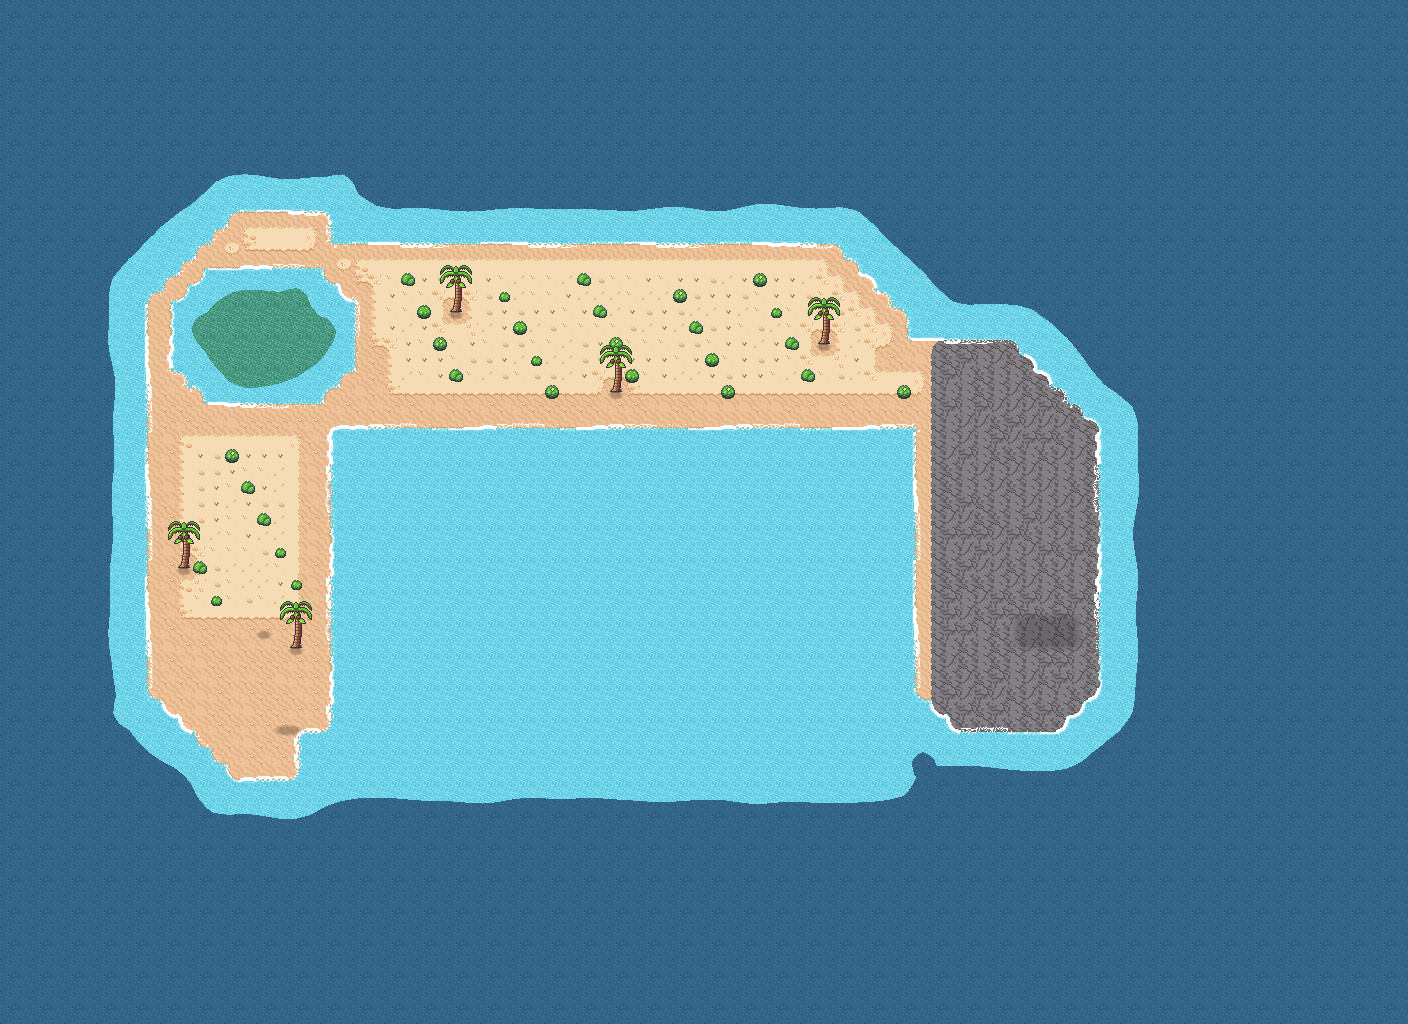
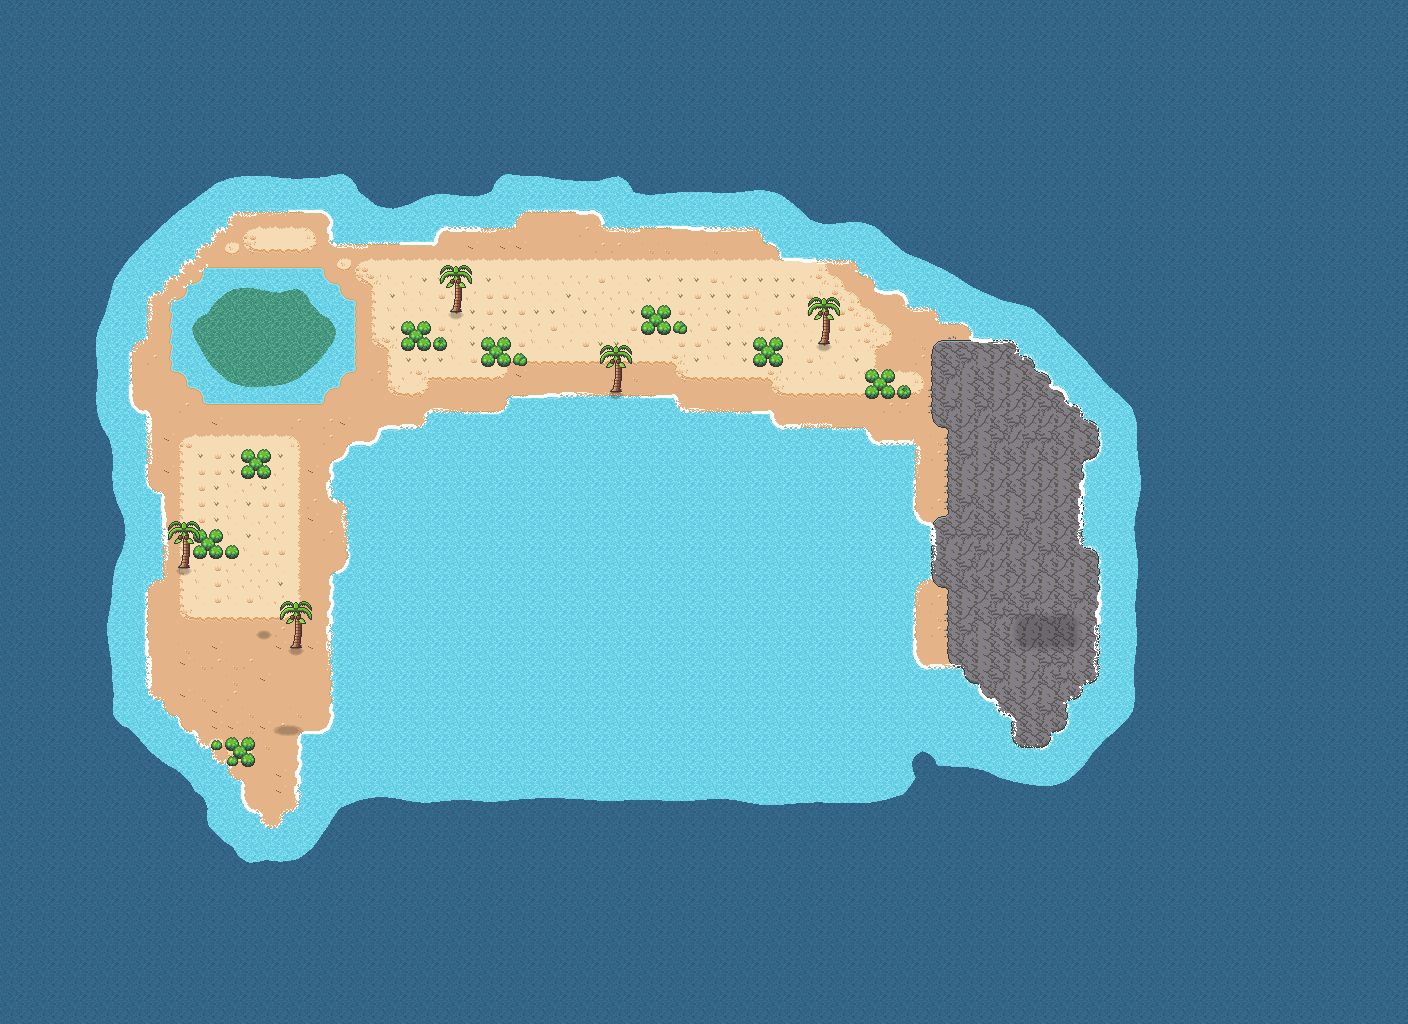
feat(coast-cay-reshape): a coast cay that reads as an island, and the sandbar's bay tips filled (C6)
The cay's bay shore bends north in a bight, its north and west coasts and
the rock's east face step in and out, the rocky point narrows to its tip
south of the post, driftwood lies in small groups and scrub in 8 clumps.
1,020 land cells; every count, place and walk band is kept; the patrol
still spots 32% (34 +/- 3), lights the raft site and never the bench.
Outline tests pin it (they failed on the old map). The sandbar's four
inner bay tips are beach (owner QC1 (a)).

Re-pins carry their reasons; test_patrol_solo's squad case clears the
night crabs, which the shifted seeded spawn put beside its hiding spot.

Changed region(s): [[0.0625, 0.1562, 0.8125, 0.8438]]

diff --git a/openspec/changes/coast-cay-reshape/tasks.md b/openspec/changes/coast-cay-reshape/tasks.md
@@ -4,45 +4,45 @@ Every group ends with the import twice (`godot --headless --path game --import`,
 
 ## 0. Gate
 
-- [ ] 0.1 Start only when art-coast-pass (wave 1) has merged into main, so the authors see rounded corners, and the coordinating session has said go. Branch from main.
-- [ ] 0.2 Read the merged state of everything that pins the cay: the coast-cay-bench change (archived or still open) and its tests, guardacostas-stealth's patrol tests, and art-terrain-polish if it has landed. Confirm on main the cells of design D2 (landing, raft site, bench and its dry grass, post block rows 38–40 × columns 63–67, rope cache, aloe, lagoon, drinking spot (22, 21), palms), and note today's pinned numbers in this design's build notes.
+- [x] 0.1 Start only when art-coast-pass (wave 1) has merged into main, so the authors see rounded corners, and the coordinating session has said go. Branch from main.
+- [x] 0.2 Read the merged state of everything that pins the cay: the coast-cay-bench change (archived or still open) and its tests, guardacostas-stealth's patrol tests, and art-terrain-polish if it has landed. Confirm on main the cells of design D2 (landing, raft site, bench and its dry grass, post block rows 38–40 × columns 63–67, rope cache, aloe, lagoon, drinking spot (22, 21), palms), and note today's pinned numbers in this design's build notes.
 
 ## 1. Tests first
 
-- [ ] 1.1 In `game/tests/unit/test_coast_cay_layout.gd`, write the outline tests of design D1 on the built layout:
+- [x] 1.1 In `game/tests/unit/test_coast_cay_layout.gd`, write the outline tests of design D1 on the built layout:
   - no coast run and no rock seam run is longer than 10 cells;
   - the rocky point's southmost three rows are each at most half its widest row, and the post block has rock on all four sides;
   - driftwood groups of 1–3 and at most 3 per row or column;
   - 25–45 scrub cells, every clump at least 4 with a 2×2 block;
   - every pick-up, palm and sign cell has at least two land corners.
   See them fail on today's map, and record the failing measures (expected: runs of 36, 32, 26 and 19, a seam of 23, tip rows 11, 10 and 8 of 11, one row holding 6 driftwood, 29 lone scrub cells).
-- [ ] 1.2 In `game/tests/unit/test_patrol_coverage.gd`, if not already pinned, add the coast-cay-bench rule that the bench and its 8 neighbours are never lit in one lap. Verify it passes on today's map.
-- [ ] 1.3 The 1-player check is the existing set, which must stay green on the new map with no edit: `test_coast_cay_solo.gd` (`test_solo_arrives_on_the_coast_cay`, `test_solo_takes_the_post_nails_and_builds_a_raft`, `test_solo_drinks_the_lagoon`, `test_solo_lights_a_fire_with_the_lighter_in_one_second`), `test_coast_cay_layout.gd` `test_a_lone_arrivals_walks` and `test_everything_is_in_reach_of_a_lone_arrival`, and `test_coast_cay_bench.gd` `test_solo_lights_a_fire_at_the_coast_cays_bench`. Add one assertion to `test_a_lone_arrivals_walks` that the workbench is a 1–4 s walk, if it is not there yet.
+- [x] 1.2 In `game/tests/unit/test_patrol_coverage.gd`, if not already pinned, add the coast-cay-bench rule that the bench and its 8 neighbours are never lit in one lap. Verify it passes on today's map.
+- [x] 1.3 The 1-player check is the existing set, which must stay green on the new map with no edit: `test_coast_cay_solo.gd` (`test_solo_arrives_on_the_coast_cay`, `test_solo_takes_the_post_nails_and_builds_a_raft`, `test_solo_drinks_the_lagoon`, `test_solo_lights_a_fire_with_the_lighter_in_one_second`), `test_coast_cay_layout.gd` `test_a_lone_arrivals_walks` and `test_everything_is_in_reach_of_a_lone_arrival`, and `test_coast_cay_bench.gd` `test_solo_lights_a_fire_at_the_coast_cays_bench`. Add one assertion to `test_a_lone_arrivals_walks` that the workbench is a 1–4 s walk, if it is not there yet.
 
 ## 2. The new outline
 
-- [ ] 2.1 Write the one-off helper of design D7 in the build session's scratchpad (not tracked): it reads the rows, rounds the land mask with a few cellular-automaton passes with the D2 cells pinned, and prints every D1 measure, the land count and share, the farthest land from water and the bench's smoke margin for a candidate.
-- [ ] 2.2 Re-author the rows of `game/resources/islands/coast_cay.tres` (design D3–D6): the bight, the rock taper and its seam jogs, the jogs on the long coasts, the driftwood groups, the scrub clumps and the flotsam line on straight-edge cells. The legend, pick-up entries, signs and fields stay. Aim at 1,010–1,080 land cells. Verify that the outline tests pass and that the rest of `test_coast_cay_layout.gd` passes: the land band and share, the 6-tile rule, the counts, the post, the landing, the reach, the walk bands and the lagoon's 30–60 cells.
-- [ ] 2.3 Verify that the coast-cay-bench tests pass unchanged apart from `LAND_CELLS`: the bench on unshaded beach, its smoke margin, its walk and the dry grass beside it.
-- [ ] 2.4 Run `test_patrol_coverage.gd`. If the cay's spotted share leaves 34% ± 3 points, its raft site is no longer lit, or the bench neighbourhood is lit, stop: send the measures to the coordinating session as an owner question and do not re-pin (design D8).
+- [x] 2.1 Write the one-off helper of design D7 in the build session's scratchpad (not tracked): it reads the rows, rounds the land mask with a few cellular-automaton passes with the D2 cells pinned, and prints every D1 measure, the land count and share, the farthest land from water and the bench's smoke margin for a candidate.
+- [x] 2.2 Re-author the rows of `game/resources/islands/coast_cay.tres` (design D3–D6): the bight, the rock taper and its seam jogs, the jogs on the long coasts, the driftwood groups, the scrub clumps and the flotsam line on straight-edge cells. The legend, pick-up entries, signs and fields stay. Aim at 1,010–1,080 land cells. Verify that the outline tests pass and that the rest of `test_coast_cay_layout.gd` passes: the land band and share, the 6-tile rule, the counts, the post, the landing, the reach, the walk bands and the lagoon's 30–60 cells.
+- [x] 2.3 Verify that the coast-cay-bench tests pass unchanged apart from `LAND_CELLS`: the bench on unshaded beach, its smoke margin, its walk and the dry grass beside it.
+- [x] 2.4 Run `test_patrol_coverage.gd`. If the cay's spotted share leaves 34% ± 3 points, its raft site is no longer lit, or the bench neighbourhood is lit, stop: send the measures to the coordinating session as an owner question and do not re-pin (design D8).
 
 ## 3. Re-pins
 
-- [ ] 3.1 Re-pin, each with a one-line reason in the test's comment and in the build notes: `test_coast_cay_bench.gd` `LAND_CELLS`; the coast cay row of `test_terrain_art.gd` `test_layer_cell_counts_of_the_two_islands` (with art-terrain-polish's C9 counted if it has landed); `test_shoreline.gd`'s shore-cell count; `test_patrol_loop.gd`'s perimeter; `test_patrol_triggers.gd`'s farthest land and land beyond 2, 3 and 6 tiles.
-- [ ] 3.2 Verify, with no edit, that these pass: `test_structure_art.gd` (the raft site at (19, 45)), `test_terrain_view.gd` (a rock shore cell, the post's corner set), `test_arrival_scatter.gd` and `test_arrival_scatter_net.gd`, `test_lean_to.gd`, `test_handmade_layouts.gd`, `test_draw_order.gd`, `test_creature_spawner.gd`, `test_coast_cay_net.gd`, `test_coast_cay_bench_net.gd` and the secret-cay tests. Any other pinned number that moved is explained here, never edited away silently.
+- [x] 3.1 Re-pin, each with a one-line reason in the test's comment and in the build notes: `test_coast_cay_bench.gd` `LAND_CELLS`; the coast cay row of `test_terrain_art.gd` `test_layer_cell_counts_of_the_two_islands` (with art-terrain-polish's C9 counted if it has landed); `test_shoreline.gd`'s shore-cell count; `test_patrol_loop.gd`'s perimeter; `test_patrol_triggers.gd`'s farthest land and land beyond 2, 3 and 6 tiles.
+- [x] 3.2 Verify, with no edit, that these pass: `test_structure_art.gd` (the raft site at (19, 45)), `test_terrain_view.gd` (a rock shore cell, the post's corner set), `test_arrival_scatter.gd` and `test_arrival_scatter_net.gd`, `test_lean_to.gd`, `test_handmade_layouts.gd`, `test_draw_order.gd`, `test_creature_spawner.gd`, `test_coast_cay_net.gd`, `test_coast_cay_bench_net.gd` and the secret-cay tests. Any other pinned number that moved is explained here, never edited away silently.
 
 ## 4. Docs
 
-- [ ] 4.1 Update `docs/ISLANDS.md` §2: the shape sentence, the land count and share, and the walks from the first landing cell as measured. Update `TASKS.md`.
+- [x] 4.1 Update `docs/ISLANDS.md` §2: the shape sentence, the land count and share, and the walks from the first landing cell as measured. Update `TASKS.md`.
 
 ## 5. Sandbar notches (QC1 (a), the owner's "Yes, fill them", 2026-11-15)
 
-- [ ] 5.1 In `game/tests/unit/test_terrain_art.gd` or the sandbar's layout test, assert that cells (45, 20), (46, 20), (45, 51) and (46, 51) are beach. See it fail.
-- [ ] 5.2 Set those four cells of `game/resources/islands/sandbar.tres` to beach. Verify the sandbar's land band (940–1,100), share and 6-tile rule, its walk and reach tests, and re-pin its land (991 → 995), its Sand layer (994 → 998) and any shore, patrol or trigger count that moved, each with a reason. Update `docs/ISLANDS.md` §1 if it gives the land count.
+- [x] 5.1 In `game/tests/unit/test_terrain_art.gd` or the sandbar's layout test, assert that cells (45, 20), (46, 20), (45, 51) and (46, 51) are beach. See it fail.
+- [x] 5.2 Set those four cells of `game/resources/islands/sandbar.tres` to beach. Verify the sandbar's land band (940–1,100), share and 6-tile rule, its walk and reach tests, and re-pin its land (991 → 995), its Sand layer (994 → 998) and any shore, patrol or trigger count that moved, each with a reason. Update `docs/ISLANDS.md` §1 if it gives the land count.
 
 ## 6. Integration
 
-- [ ] 6.1 Run the import twice, smoke and GUT. All must be clean. No networking file changed, so no host-plus-client run is needed beyond the net tests in GUT; if one did change, run host and client locally before merging.
+- [x] 6.1 Run the import twice, smoke and GUT. All must be clean. No networking file changed, so no host-plus-client run is needed beyond the net tests in GUT; if one did change, run host and client locally before merging.
 - [ ] 6.2 Windowed 1-player check: with `game/tests/manual/capture_terrain.tscn`, capture the coast cay by day and compare it with the review's before captures in `docs/art-pass/review-2026-11-14/before/` (`before/cay_day_inner_water.png`, `before/cay_day_rocky_point.png`, `before/coast_cay_day.png`, under `C:/Users/liann/AppData/Local/Temp/claude/3e391225d1d53c33/033b02a6-abc6-4589-bc32-d2c7f6771443/scratchpad/art_review/`). Re-shoot `docs/art-pass/coast_cay_day.png`. Walk a solo run from the landing to the post and back, and read the run log for errors.
 - [ ] 6.3 Record the final measures, land count and re-pins in this design's build notes, and run `openspec validate coast-cay-reshape --strict`.
 

diff --git a/openspec/changes/coast-cay-reshape/design.md b/openspec/changes/coast-cay-reshape/design.md
@@ -125,3 +125,47 @@ Data only. To roll back, revert the commit: runs are not saved, and no network m
 ## Build notes
 
 The helper's settings, the final measures, the land count and the re-pinned numbers are recorded here as the tasks ship.
+
+**Gate and today's pins (0.1, 0.2; main 8c58c16, 2026-11-22).** art-coast-pass, coast-cay-bench and art-terrain-polish C9 have landed; the coordinating session said go. Every D2 cell is where the design says. Today's pins: 1,021 land cells (18.1%); Sand, Dune, Brush and Plain 1,021, 393, 29 and 256 (`test_terrain_art.gd`, C9 counted); 265 shore cells; a 195-tile lap; the farthest land 6.3 tiles from the sea, with 632, 436 and 2 cells beyond 2, 3 and 6 tiles; 34% spotted in a lap.
+
+**Tests first (1.1–1.3).** The outline tests failed on today's map as expected: a south run of 36 (the longest; the others 32, 26 and 19), a seam of 23, tip rows 11, 10 and 8 against a widest 11, 6 driftwood in row 26 and 29 lone scrub cells. The outer-corner test passed today. `test_patrol_coverage.gd` gains the bench rule (the bench and its 8 neighbours never lit in a lap); it passed on today's map. `test_a_lone_arrivals_walks` gains the workbench's 1–4 s walk.
+
+**The helper (2.1).** `c6_helper.py` measures every D1 rule, the land band, the 6-tile rule, the bench's sea margin and the walk bands (Dijkstra over the walk grid, diagonals only past two walkable sides, at 4 tiles/s), and `c6_build.py` applies hand-placed edits to today's rows. Both are kept in the build session's notes folder, not tracked. No cellular-automaton pass was needed: every edit is a placed jog, bulge, shoulder or clump. The shallows ring is then recomputed by the rule today's map already follows exactly: outside the bay, water within 2.5 tiles of land is shallows and deeper water is deep. The bay keeps its shallows.
+
+**The new outline (2.2).**
+- **The bight (D3).** The bay's north shore steps up from row 26 to 25 (columns 27–31), to 24 (columns 32–41, a 10-cell apex) and back down to 25 (columns 42–47). Shoulders of 4 and 3 cells round it into the west arm and the rock's beach strip.
+- **The rock (D4).** Full width round the post (rows 37–41, columns 62–68), then 9, 7, 5, 4 and 3 cells wide in rows 42–46. The seam jogs one column at rows 27–31 and 37–41. The east face steps in at rows 29–33. The beach strip breaks at rows 33–35, where the rock meets the bay.
+- **Jogs (D5).**
+  - North coast: out at columns 27–31 (row 14), 32–37 (row 13) and 38–47 (row 14); in at columns 49–52 (row 16).
+  - West coast: out at rows 21–25 (column 8). At rows 31–35 the whole west arm steps one cell east: the west coast moves in, the bay shore moves out, and the arm stays 12 cells wide, so the 6-tile rule holds. An outward-only bulge broke the rule (6.71) and was dropped.
+  - Clear of the landing and of the bench's sea margin.
+- **Land paid back** by the west arm's tip (rows 49–51), a smoother north-east corner into the rock's top, and the shoulders: 1,020 land cells (18.1%).
+- **Driftwood (D6).** 8 pieces in groups of 1–2: (24,25)+(25,26), (33,24)+(35,24), (45,25), (51,25), and the west arm's (10,30) and (10,38). At most 3 in a row.
+- **Scrub (D6).** 38 cells in 8 clumps of 4–5, each with a 2×2 core: two on the west arm's dune, four in the north band, one at the band's north-east end and one on the beach south of the landing.
+  - **Departure from D6:** 8 clumps, not 6–8 dune-only. Guardacostas-capture's rule "cover more than 2 tiles away is at most 13 steps from any cell" (`test_squad_search_coverage.gd`, landed after this design) failed at 17 steps, from the arm's longer tip and the rock's top. The beach clump and the north-east clump bring it back to 13, today's figure; the north-coast clump was dropped to stay at 8.
+- **Flotsam.** The two pieces on the stepped-out stretch moved one cell onto its new edge: (21,32) and (21,34). Each stands on a straight edge with two land corners.
+
+**Measures (2.2–2.4).**
+- Every coast run is at most 10 (north 10, south 10, east 10, west 8), and every rock seam run at most 6. The rock's southmost rows are 5, 4 and 3 against a widest 11.
+- No pick-up, palm or sign stands on an outer corner. The farthest land is 6.0 tiles from water. The bench's sea margin is 3.0.
+- Walks from the first landing, unchanged: bench 1.8 s, raft site 2.6 s, flotsam 3.1–4.3 s, lagoon 6.5 s, aloe 8.1–8.7 s, rope cache 11.6–11.9 s, post 13.8–14.3 s.
+- **Patrol (D8, not re-pinned):** 32.0% spotted (34% ± 3), the raft site still lit, the bench and its neighbours never lit. Squad search coverage: 13 steps to cover at most, both islands.
+
+**Re-pins (3.1), each with its reason in the test:**
+- `test_coast_cay_bench.gd` `LAND_CELLS`: 1,021 → 1,020.
+- `test_terrain_art.gd`: coast cay Sand, Dune, Brush and Plain 1,021/393/29/256 → 1,020/368/38/229. Sandbar Sand 994 → 998.
+- `test_shoreline.gd`: cay 265 → 291, sandbar 268 → 264.
+- `test_patrol_loop.gd`: cay lap 195 → 196.8.
+- `test_patrol_triggers.gd`:
+  - cay farthest land 6.3 → 7.07 (the west shoulder moves the bay's water away from (15, 25), south of the lagoon), and beyond 2, 3 and 6 tiles 632/436/2 → 636/439/8;
+  - sandbar farthest land 5.7 → 5.83, and beyond 2 and 3 tiles 617/413 → 621/417.
+- **One test made robust, not re-pinned:** `test_patrol_solo.gd`'s "spotted on open sand … the boat resumes its lap". With the sandbar's tips filled, the seeded night spawn puts a land crab beside the test's hiding spot. It pinches the crouched player to death, and the squad leaves at 51 s with nobody left to search. The test now clears the crabs first, because it is about the patrol and its squad. Main's sandbar passes it either way.
+- **3.2:** every other listed suite passes unedited.
+
+**Sandbar tips (5.1, 5.2; QC1 (a)).** `test_the_inner_bay_tips_have_no_notches` failed on all four cells, then passed. Land is 991 → 995, inside the 940–1,100 band, and the 6-tile rule holds. The patrol spots 45.4% (45% ± 3).
+
+**Integration (6.1, 6.2).**
+- Import twice and smoke are clean.
+- Full GUT: 2,679 of 2,680 pass. The one failure is main's `test_user_tmp`, which flags five suites that are not from this change.
+- No networking file changed. `test_coast_cay_net.gd`, `test_coast_cay_bench_net.gd` and `test_arrival_scatter_net.gd` pass.
+- Captures: `docs/art-pass/coast_cay_day.png` and `sandbar_day.png` are re-shot. `docs/art-pass/coast-cay-reshape/coast_cay_before_after.png` puts main's layout (left) beside the new one (right), both with today's art. `sandbar_bay_tips_before_after_x2.png` shows the two tips before (left) and after (right).

diff --git a/TASKS.md b/TASKS.md
@@ -169,7 +169,7 @@ Voice acting, cloned voices, runtime TTS, challenges, seeded and daily runs, and
   - [ ] `art-terrain-polish` (wave 2): the bush hole first (TR14), palms counted as dune (C9), the dune's inland corners rounded as wave 1 rounded the sand's (the owner's "Next PR", 2026-11-15), darker shallows and the wet edge (C7), scrub variety with fitted shore variants (C10), beach stripes and weighted picks (C11), the rock lip, face and seam (C12), still foam on the lagoon (C13), the raft drawn on the sand with a shadow by stage (C14)
   - [ ] `art-sprite-polish` (wave 3): the swim bob and ripple ring (C19, C20), scrub drawn over a crouched body (C8, after C10), the fin never drawn over the deck (SP1, drawing only), a swimmer north of the deck drawn behind it (C22), the shark redraw with facings (C24), the crab, gull flight frames and a lying pose (C25 in part). The raft-side parts wait for `crossing-gameplay`
   - [ ] `art-mood-pass` (wave 5): a warm stepped fire light as far as the company bonus reaches and a slightly brighter night (C33), squall rain, a faster sea and foam and a "Turbonada" label (C34), crests, a wake and the look of crossing-gameplay's flotsam (C35). The crossing parts wait for `crossing-gameplay`
-  - [ ] `coast-cay-reshape` (C6, content): the coast cay re-authored without ruler-straight coasts, with a narrowing rock point and driftwood and scrub in groups; every count, place and walk band kept. The sandbar's four notch cells filled (owner: "Yes, fill them", 2026-11-15)
+  - [ ] `coast-cay-reshape` (C6, content): the coast cay re-authored without ruler-straight coasts, with a narrowing rock point and driftwood and scrub in groups; every count, place and walk band kept. The sandbar's four notch cells filled (owner: "Yes, fill them", 2026-11-15). Built 2026-11-22: 1,020 land cells, every coast and rock seam run at most 10, scrub in 8 clumps, the patrol still spots 32% of the cay (34% ± 3) and lights its raft site, never the bench.
   - [ ] `art-prop-polish` (OpenSpec change written 2026-11-15; owner: "Yes, write it", Q12 (a), Q15 (a)): the outline rule written down and checked, five icons redrawn, the rain catcher's tarp, palm looks by hash (owner QP1 (a): 1–2 redrawn palms lit from the upper left), the lean-to redrawn with its shade darkest under the roof, the hidden cay's scenery drawn with Platino, and a ruined garita over the coast cay's post with signs that show what they are (after `coast-cay-reshape`)
   - [ ] Follow-ups from the owner's QD1 (a), "Ship, look again later" (2026-11-15), after the owner has seen the rounded dune corners: slope tiles for true 45° stairs on the sand and the dune (C5 of the 2026-11-14 design pass), and reshaping the sandbar's dune runs into longer steps (content; the sandbar's shape was approved twice)
   - Left out of this queue, each its own change if wanted: the vessels' waterline and redraws (C23), the crouch lean and run dust (SP11), the occlusion outline (SP12), birds and lightning at sea, and real art for crossing-gameplay's rocks, debris and leaks

diff --git a/docs/ISLANDS.md b/docs/ISLANDS.md
@@ -48,7 +48,7 @@ Generation: `IslandGenerator` builds a landmass from seeded integer steps (heigh
 
 **Biome.** Beach, dunes, a rocky point, a small lagoon.
 
-**Size.** Base variant, handmade (`coast_cay.tres`, owner-confirmed 2026-11-08): 88×64 cells, 1,021 land cells (18.1%) in a C of two 12-wide strips and a rocky spur round shallow flats, a long axis of 60 tiles (about 15 s) and a 42-cell brackish lagoon in the north-west corner. Four landing cells within 3 tiles of each other on the south-west beach. Walks from the first landing cell: workbench 2 s, raft site 3 s, flotsam 3–4 s, lagoon 7 s, aloe 8–9 s, rope cache 12 s, observation post 14 s. The lagoon never runs dry (thirst +10, then −5 after 30 s). Counts are fixed: nails ×4, mirror ×1, aloe ×4, rope ×4, lighter ×1, tubes ×2, jugs ×2, driftwood 8, dry grass ×2, 5 palms with 10 coconuts; one workbench (`coast-cay-bench`, 2026-11-14), no noni yet.
+**Size.** Base variant, handmade (`coast_cay.tres`, owner-confirmed 2026-11-08): 88×64 cells, 1,020 land cells (18.1%) in a C round shallow flats (reshaped by `coast-cay-reshape`, 2026-11-22): a north band whose bay shore bends north in a bight, a west arm and a north coast that step in and out every few cells, and a rocky point that narrows to its tip south of the observation post. Scrub grows in 8 clumps, driftwood lies in small groups. A long axis of 60 tiles (about 15 s) and a 42-cell brackish lagoon in the north-west corner. Four landing cells within 3 tiles of each other on the south-west beach. Walks from the first landing cell: workbench 2 s, raft site 3 s, flotsam 3–4 s, lagoon 7 s, aloe 8–9 s, rope cache 12 s, observation post 14 s. The lagoon never runs dry (thirst +10, then −5 after 30 s). Counts are fixed: nails ×4, mirror ×1, aloe ×4, rope ×4, lighter ×1, tubes ×2, jugs ×2, driftwood 8, dry grass ×2, 5 palms with 10 coconuts; one workbench (`coast-cay-bench`, 2026-11-14), no noni yet.
 
 **POIs.**
 | POI | Resources | Notes |
